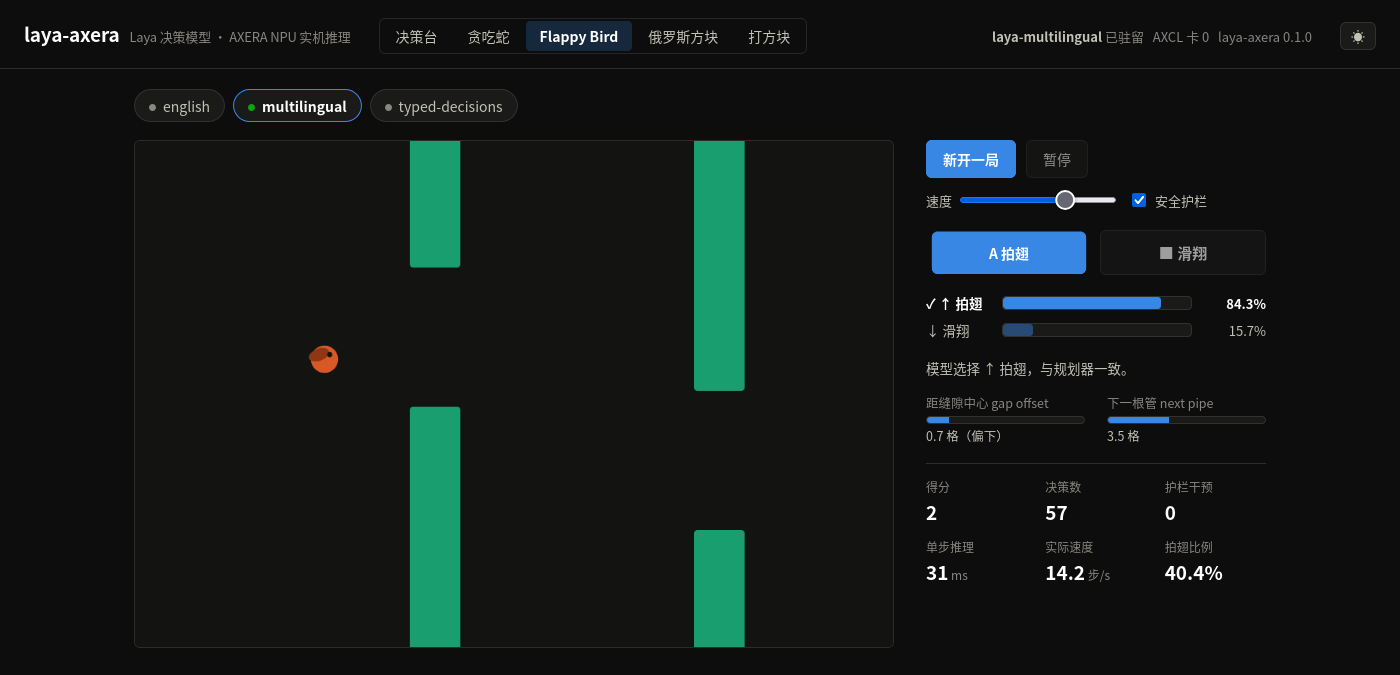
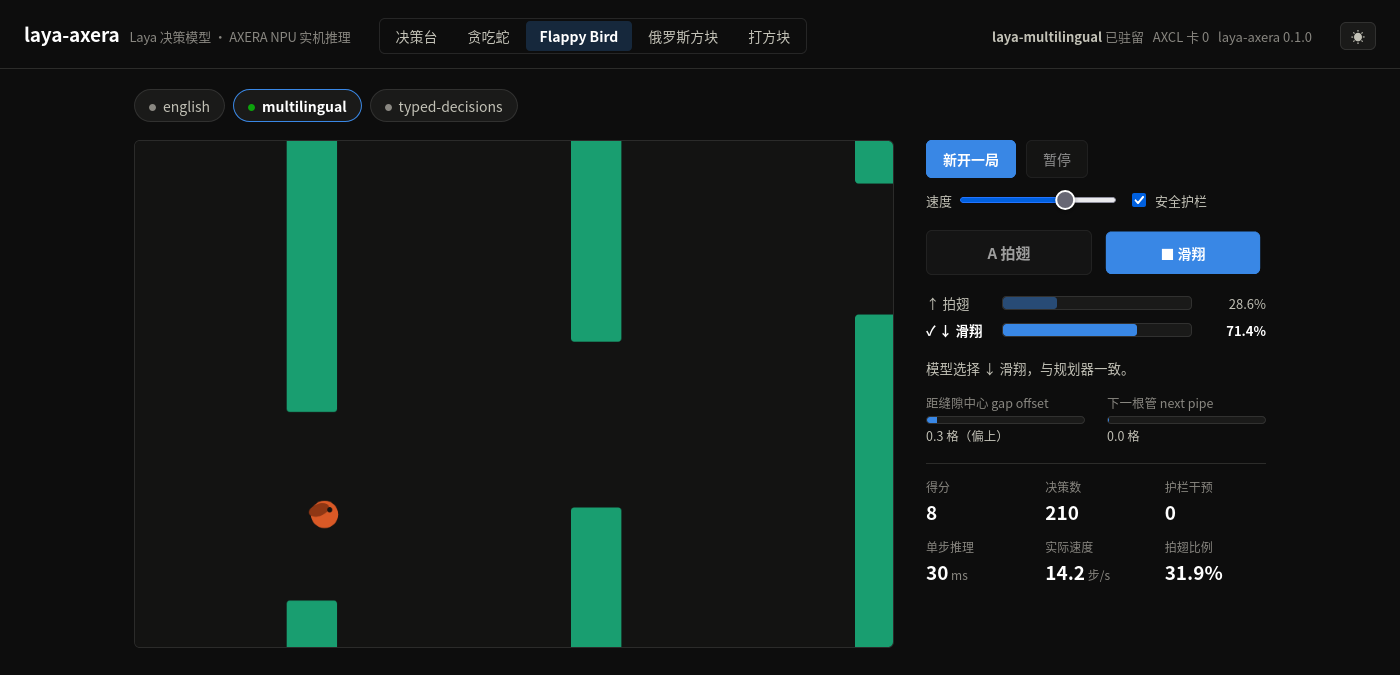
Draw each flappy pipe corridor at its own random height
The gap was one fixed number shared by every pipe; it is now drawn per
pipe from a range (3.8-6.0 cells by default, and a single number still
works), carried in the pipe record, honoured by the collision test and
the renderer. The planner's aim-at-center dead band scales with the
corridor it is aiming at instead of being a fixed 0.35.

Endurance after the change: the planner alone clears 1200 steps on all
eight seeds tested, and the model clears 400 steps on three seeds with
no shield interventions, guarded or not. The README screenshot is a
live capture of that run.

diff --git a/laya_axera/web/index.html b/laya_axera/web/index.html
@@ -831,8 +831,9 @@ function drawFlappy(snap, frame) {
   const pw = snap.pipe_w * cw;
   for (const p of snap.pipes) {
     const x = (p.x + shift) * cw - pw / 2;
-    const topH = (p.gap_y - snap.gap / 2) * ch;
-    const botY = (p.gap_y + snap.gap / 2) * ch;
+    const g = p.gap != null ? p.gap : snap.gap;
+    const topH = (p.gap_y - g / 2) * ch;
+    const botY = (p.gap_y + g / 2) * ch;
     ctx.beginPath(); ctx.roundRect(x, -8, pw, topH + 8, 4); ctx.fill();
     ctx.beginPath(); ctx.roundRect(x, botY, pw, canvas.height - botY + 8, 4); ctx.fill();
   }

diff --git a/laya_axera/flappy/game.py b/laya_axera/flappy/game.py
@@ -21,11 +21,16 @@ PIPE_W = 1.6
 
 
 class FlappyGame:
-    def __init__(self, width=24, height=16, seed=7, gap=4.4, spacing=9.0):
-        if not 3.0 <= gap <= height - 4:
-            raise ValueError("gap must leave room for pipes")
+    def __init__(self, width=24, height=16, seed=7, gap=(3.8, 6.0), spacing=9.0):
+        # `gap` is the per-pipe corridor height: a (min, max) range drawn per pipe,
+        # or a single number for a fixed corridor.
+        gap_min, gap_max = (gap, gap) if isinstance(gap, (int, float)) else gap
+        if not 3.0 <= gap_min <= gap_max <= height - 4:
+            raise ValueError("gap range must leave room for pipes")
         self.width, self.height = width, height
-        self.gap, self.spacing = float(gap), float(spacing)
+        self.gap_min, self.gap_max = float(gap_min), float(gap_max)
+        self.gap = (self.gap_min + self.gap_max) / 2
+        self.spacing = float(spacing)
         self.seed = seed
         self.rng = random.Random(seed)
         self.y = height / 2.0
@@ -41,9 +46,11 @@ class FlappyGame:
         self.death_reason = None
 
     def _new_pipe(self, x):
-        margin = self.gap / 2 + 1.2
+        gap = self.rng.uniform(self.gap_min, self.gap_max)
+        margin = gap / 2 + 1.2
         return {
             "x": x,
+            "gap": gap,
             "gap_y": self.rng.uniform(margin, self.height - margin),
             "passed": False,
         }
@@ -68,7 +75,7 @@ class FlappyGame:
                 pipe["passed"] = True
                 self.score += 1
             if abs(pipe["x"] - BIRD_X) < PIPE_W / 2 + BIRD_R:
-                half = self.gap / 2
+                half = pipe["gap"] / 2
                 if self.y - BIRD_R < pipe["gap_y"] - half or self.y + BIRD_R > pipe["gap_y"] + half:
                     self.alive, self.death_reason = False, "pipe"
                     return
@@ -103,6 +110,7 @@ class FlappyGame:
         twin = object.__new__(FlappyGame)
         twin.width, twin.height = self.width, self.height
         twin.gap, twin.spacing = self.gap, self.spacing
+        twin.gap_min, twin.gap_max = self.gap_min, self.gap_max
         twin.seed, twin.rng = self.seed, random.Random(0)  # spawns beyond the horizon
         twin.y, twin.vy = self.y, self.vy
         twin.pipes = [dict(p) for p in self.pipes]
@@ -123,12 +131,16 @@ class FlappyGame:
         offset = self.y - pipe["gap_y"]  # positive = bird below the gap center
         distance = pipe["x"] - BIRD_X
         safe_flap, safe_hold = self.safe(True), self.safe(False)
+        # Aim-at-center dead band, proportional to this pipe's corridor height.
+        deadband = 0.08 * pipe["gap"]
         if safe_flap != safe_hold:
             autopilot = "up" if safe_flap else "down"
         else:
-            autopilot = "up" if offset > 0.35 else "down"
+            autopilot = "up" if offset > deadband else "down"
         return {
             "offset": offset,
+            "gap": pipe["gap"],
+            "deadband": deadband,
             "distance": distance,
             "rising": self.vy < 0,
             "safe_flap": safe_flap,
@@ -148,7 +160,7 @@ class FlappyGame:
             "pipe_w": PIPE_W,
             "gap": self.gap,
             "pipes": [
-                {"x": round(p["x"], 3), "gap_y": round(p["gap_y"], 3)}
+                {"x": round(p["x"], 3), "gap_y": round(p["gap_y"], 3), "gap": round(p["gap"], 3)}
                 for p in self.pipes
                 if p["x"] < self.width + 2
             ],

diff --git a/laya_axera/flappy/policy.py b/laya_axera/flappy/policy.py
@@ -51,8 +51,8 @@ class LayaFlappyPolicy:
                 "type": "choice",
                 "instructions": "Choose the best safe action.",
                 "criteria": {
-                    "up": self._describe(plan["safe_flap"], plan["offset"] > 0.35),
-                    "down": self._describe(plan["safe_hold"], plan["offset"] <= 0.35),
+                    "up": self._describe(plan["safe_flap"], plan["offset"] > plan["deadband"]),
+                    "down": self._describe(plan["safe_hold"], plan["offset"] <= plan["deadband"]),
                 },
             }
         }
